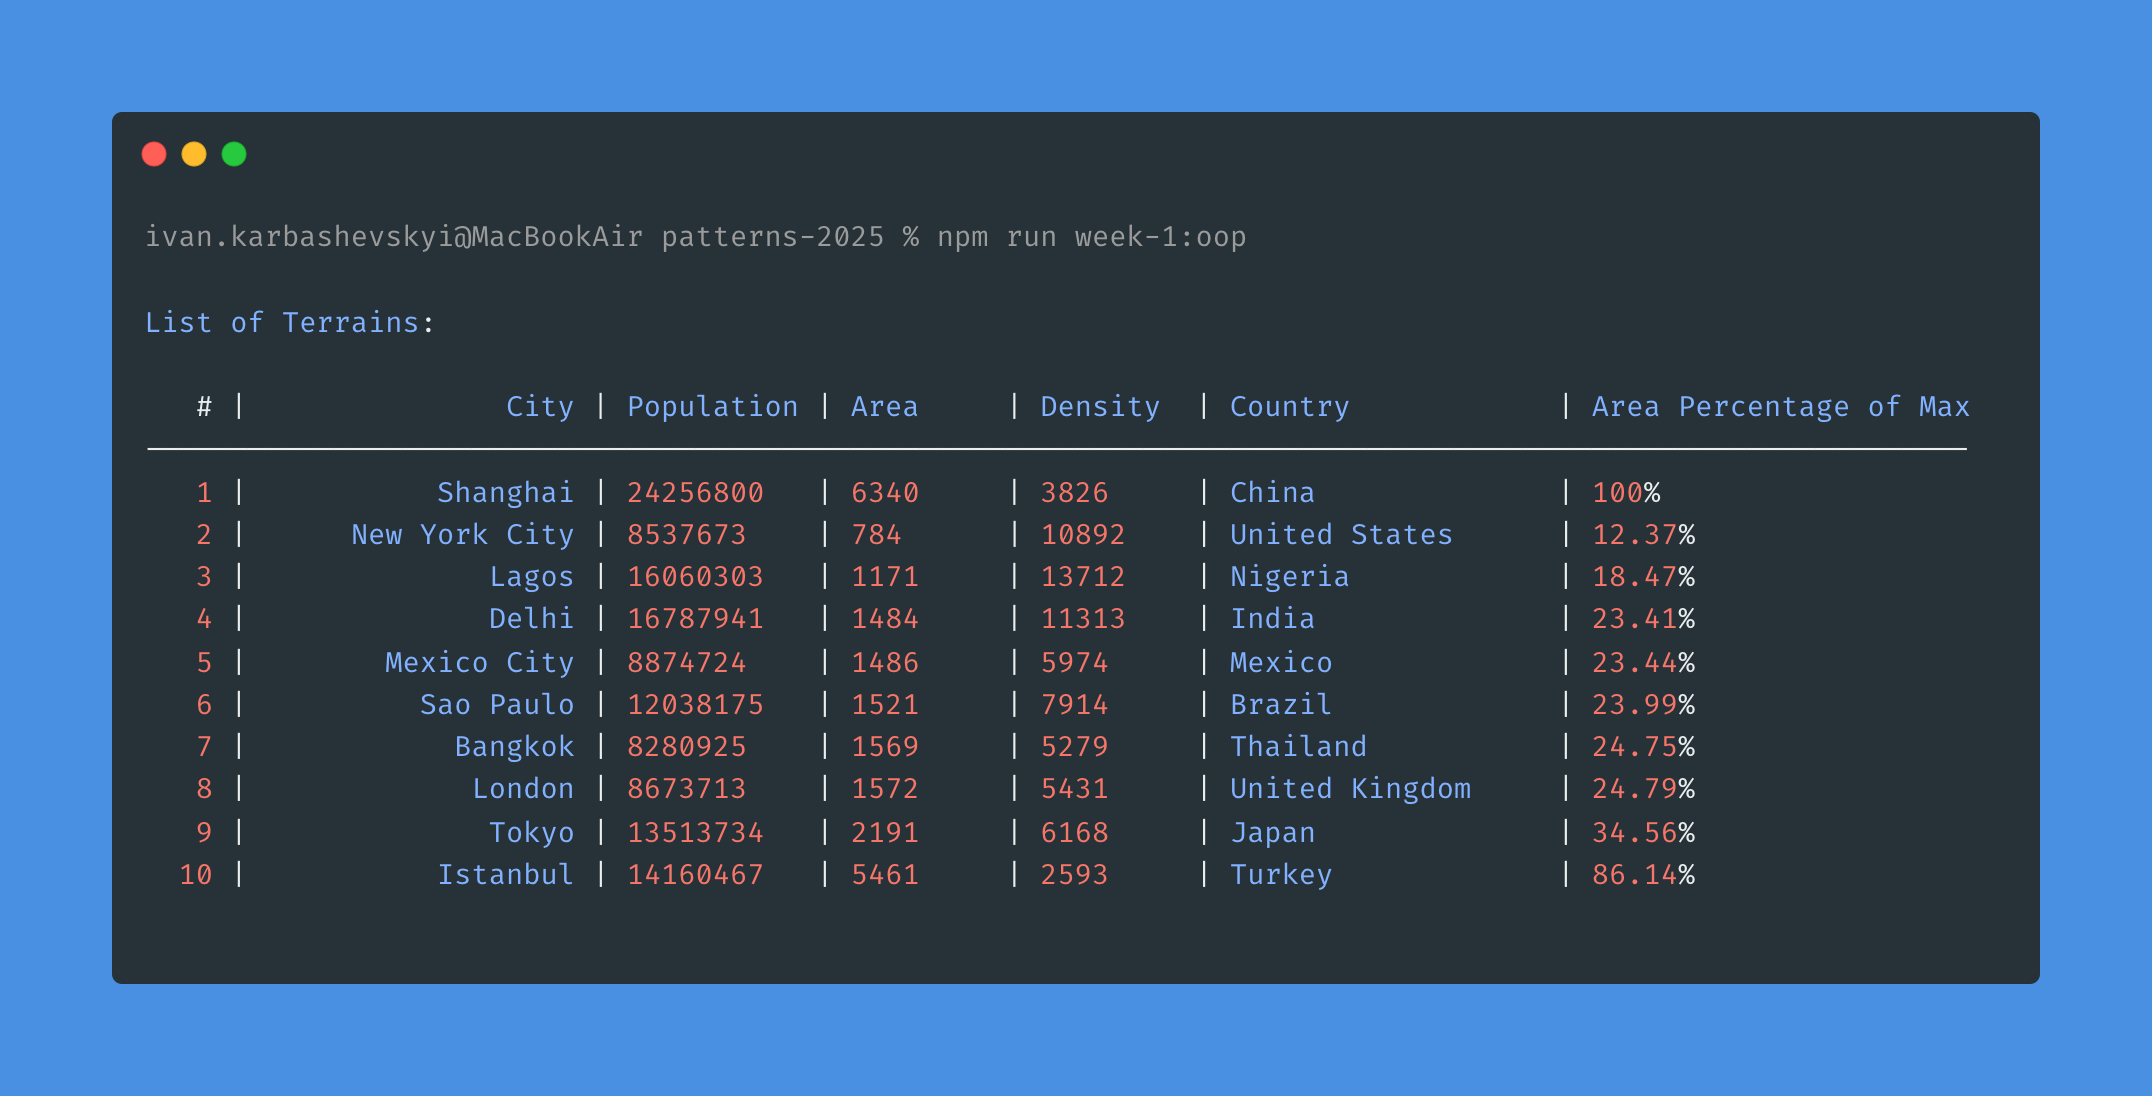
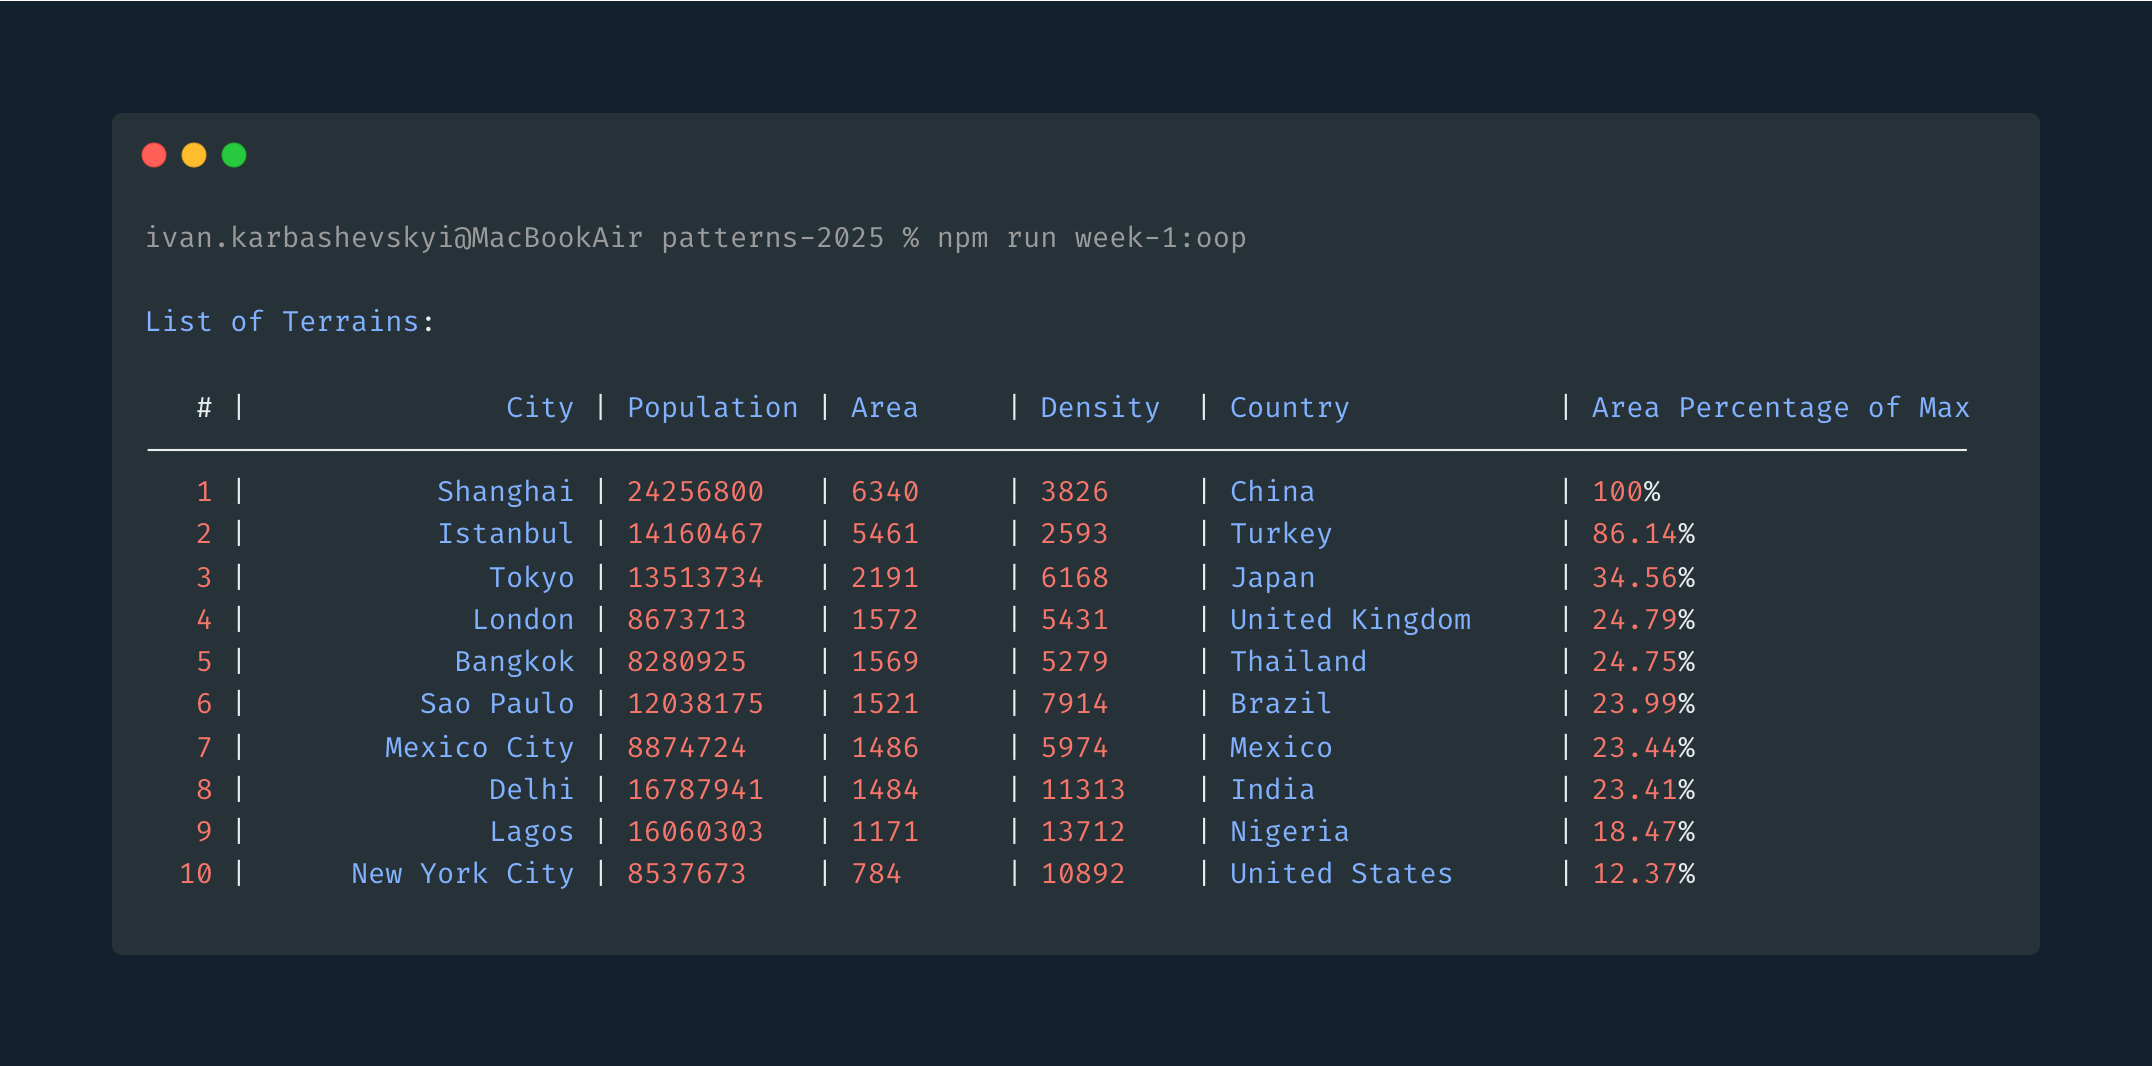
fix(console): Update sorting logic to handle multiple data types and change default sort order to descending

diff --git a/week-1/solution/oop/presentation/console/list.console.ts b/week-1/solution/oop/presentation/console/list.console.ts
@@ -37,8 +37,17 @@ export class ListConsole<I> {
         const { sortBy, sortOrder } = this.#configuration;
         // TODO: Use toSorted instead of sort to avoid mutating the original array.
         const sortedList = [...value].sort((a, b) => {
-            const comparison = String(a[sortBy]).localeCompare(String(b[sortBy]));
-            return sortOrder === 'asc' ? comparison : -comparison;
+                const [left, right] = sortOrder === 'desc' ? [b, a] : [a, b];
+            switch (typeof a[sortBy]) {
+                case 'number':
+                    return (left[sortBy] as number) - (right[sortBy] as number);
+                case 'string':
+                    return String(left[sortBy]).localeCompare(String(right[sortBy]));
+                case 'boolean':
+                    return Number(left[sortBy]) - Number(right[sortBy]);
+                default:
+                    throw new Error(`Unsupported type for sorting: ${typeof a[sortBy]}`);
+            }
         });
         this.#list = sortedList;
     }

diff --git a/week-1/solution/oop/index.ts b/week-1/solution/oop/index.ts
@@ -77,7 +77,7 @@ export const terrainPresentationListConfigutation: IListConsoleConfiguration<ITe
         }
     },
     sortBy: 'areaPercentageOfMax',
-    sortOrder: 'asc',
+    sortOrder: 'desc',
 };
 
 export class Bootstrap {
